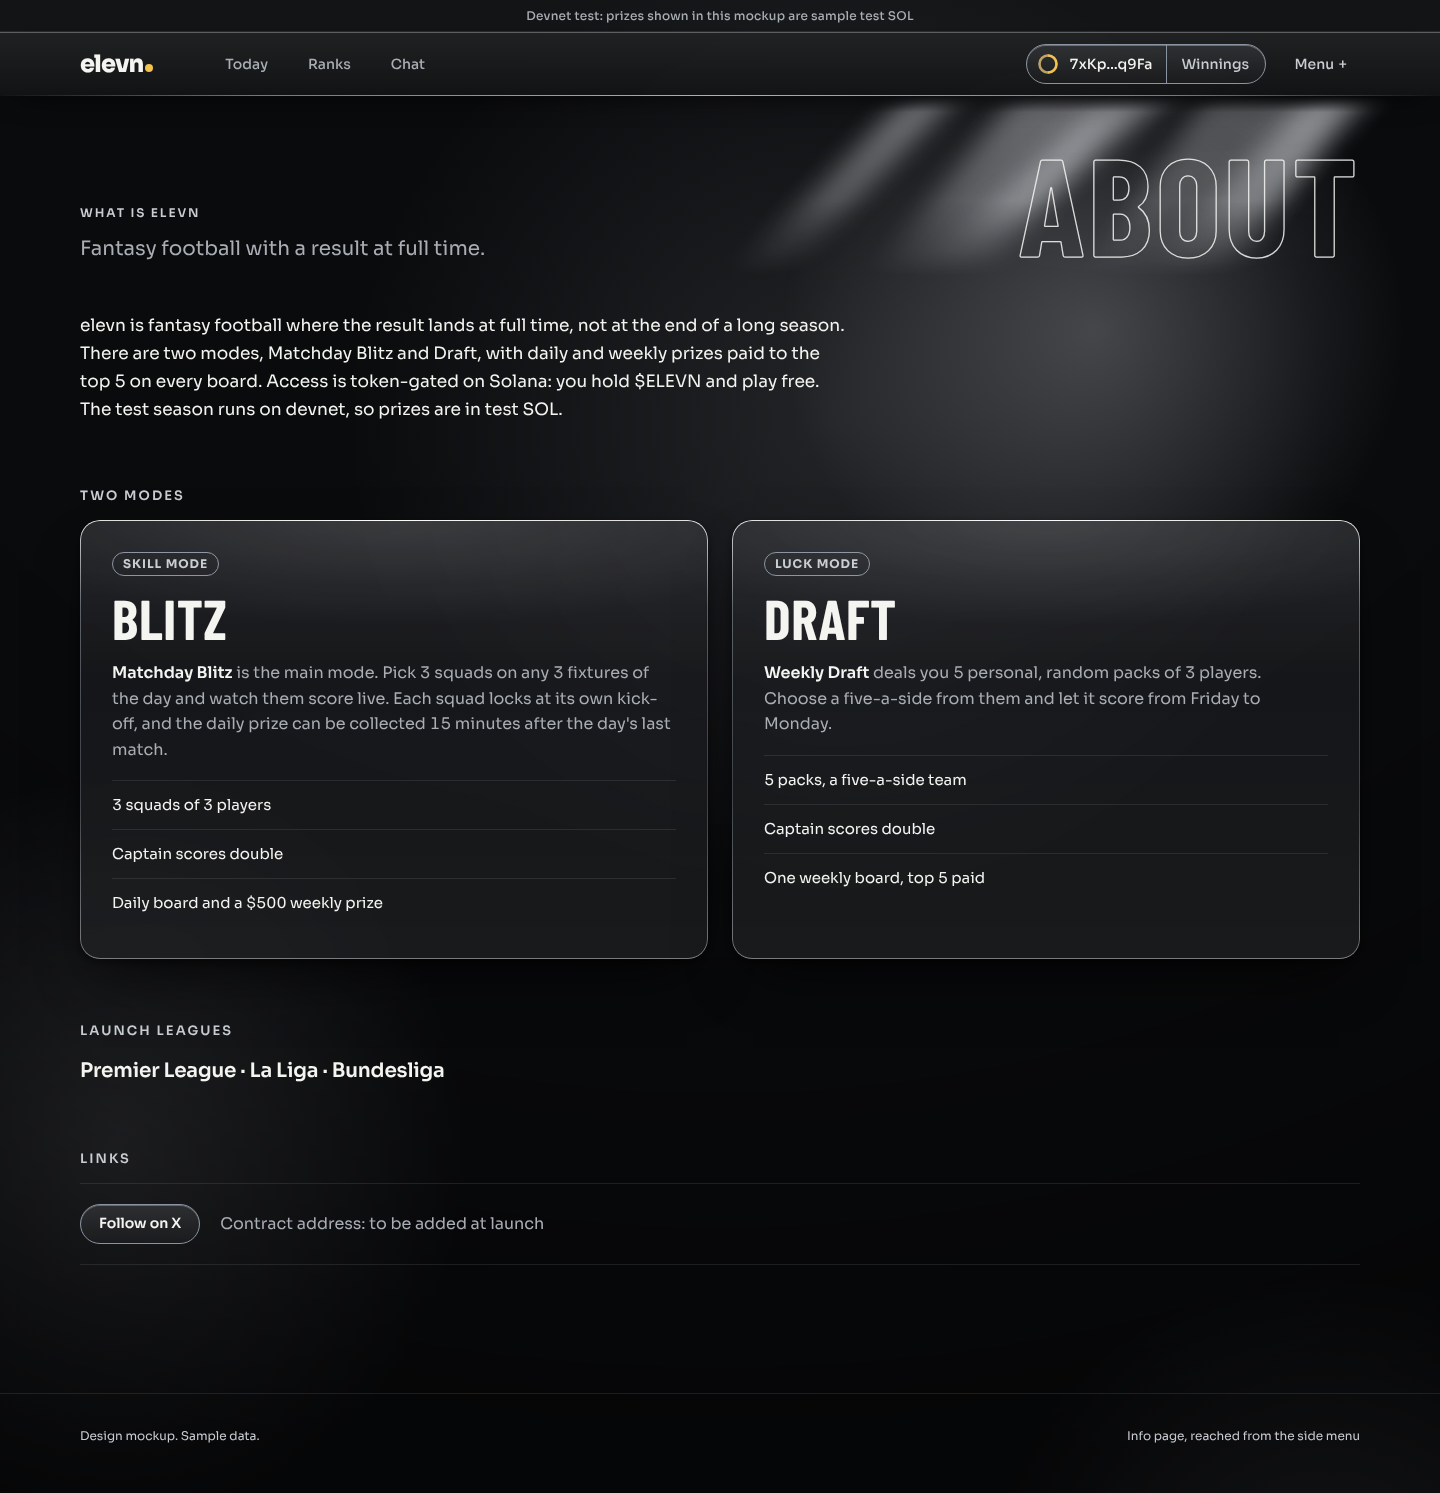
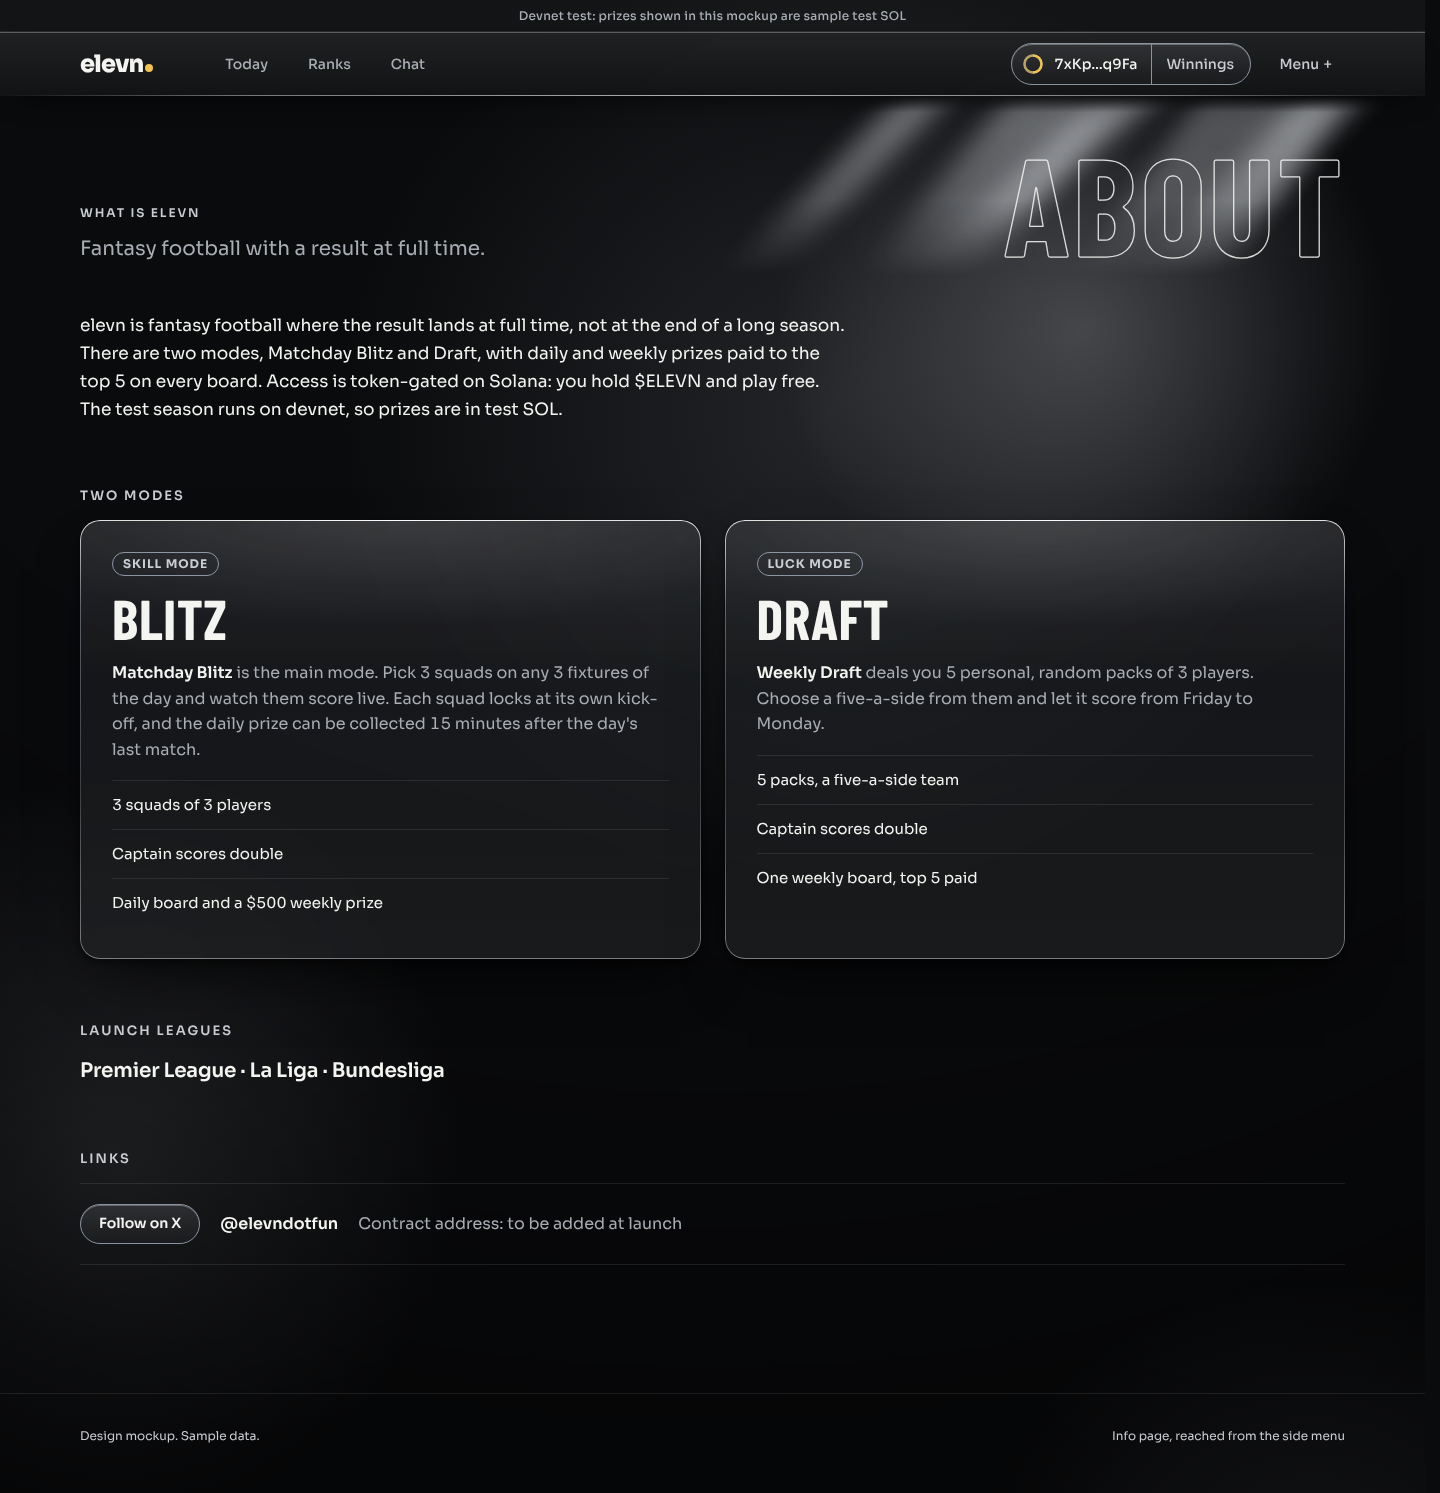
Mockups, work in progress: Roadmap drop-down and X link on About
Claude-Session: https://claude.ai/code/session_012GbKymxq8Mwy7J7Kp4CrmR

diff --git a/docs/design/mockups/roadmap.html b/docs/design/mockups/roadmap.html
@@ -13,8 +13,10 @@
 <main class="wrap ip">
 <div class="rays" aria-hidden="true"><i></i><i></i><i></i><i></i><i></i></div>
 <div class="ph"><div><span class="eyebrow">Where we are</span><p class="lead">The stages in order. No dates yet; each one opens when the one before it is done.</p></div><div class="w"><h1 class="word">Roadmap</h1></div></div>
-<div class="ip-grid"><div class="ip-main"><ol class="rtl" aria-label="Stages">
-<li class="done"><span class="mk"><svg width="26" height="26" viewBox="-13 -13 26 26" fill="none" stroke="currentColor" stroke-width="2.4" stroke-linecap="round" stroke-linejoin="round" aria-hidden="true"><path d="M-7 0.5L-2.5 5 7.5-5"/></svg></span><div class="glass stage"><div class="row"><h2>Blueprint</h2><span class="rs done"><svg width="14" height="14" viewBox="-7 -7 14 14" fill="none" stroke="currentColor" stroke-width="2.2" stroke-linecap="round" stroke-linejoin="round" aria-hidden="true"><path d="M-4.5 0.5L-1.5 3.5 4.5-3"/></svg>Done</span></div><p>Game modes, prizes and rules are settled.</p></div></li><li class="now" aria-current="step"><span class="mk"><svg width="26" height="26" viewBox="-13 -13 26 26" aria-hidden="true"><circle r="4.5" fill="#f2c14e"/><circle r="9" fill="none" stroke="#f2c14e" stroke-width="2"/></svg></span><div class="glass stage"><div class="row"><h2>Design</h2><span class="rs now"><svg width="14" height="14" viewBox="-7 -7 14 14" aria-hidden="true"><circle r="3.4" fill="#0a0b0d"/><circle r="6" fill="none" stroke="#0a0b0d" stroke-width="1.6"/></svg>Now</span></div><p>The look of the whole site, drawn as mockups.</p></div></li><li class="next"><span class="mk"><svg width="26" height="26" viewBox="-13 -13 26 26" aria-hidden="true"><circle r="7" fill="none" stroke="currentColor" stroke-width="2.4"/></svg></span><div class="glass stage"><div class="row"><h2>Build</h2><span class="rs next"><svg width="14" height="14" viewBox="-7 -7 14 14" aria-hidden="true"><circle r="5" fill="none" stroke="currentColor" stroke-width="2"/></svg>Next</span></div><p>Each part is built and tested in turn.</p><ol class="steps"><li>Foundations</li><li>Matchday Blitz</li><li>Draft</li><li>Penalty Shootout</li><li>Home page</li><li>News</li><li>First-visit tutorial</li></ol></div></li><li class="next"><span class="mk"><svg width="26" height="26" viewBox="-13 -13 26 26" aria-hidden="true"><circle r="7" fill="none" stroke="currentColor" stroke-width="2.4"/></svg></span><div class="glass stage"><div class="row"><h2>Test season on devnet</h2><span class="rs next"><svg width="14" height="14" viewBox="-7 -7 14 14" aria-hidden="true"><circle r="5" fill="none" stroke="currentColor" stroke-width="2"/></svg>Next</span></div><p>Prizes are test SOL on devnet.</p></div></li><li class="next"><span class="mk"><svg width="26" height="26" viewBox="-13 -13 26 26" aria-hidden="true"><circle r="7" fill="none" stroke="currentColor" stroke-width="2.4"/></svg></span><div class="glass stage"><div class="row"><h2>Legal review</h2><span class="rs next"><svg width="14" height="14" viewBox="-7 -7 14 14" aria-hidden="true"><circle r="5" fill="none" stroke="currentColor" stroke-width="2"/></svg>Next</span></div><p>Comes before mainnet.</p></div></li><li class="next"><span class="mk"><svg width="26" height="26" viewBox="-13 -13 26 26" aria-hidden="true"><circle r="7" fill="none" stroke="currentColor" stroke-width="2.4"/></svg></span><div class="glass stage"><div class="row"><h2>Mainnet</h2><span class="rs next"><svg width="14" height="14" viewBox="-7 -7 14 14" aria-hidden="true"><circle r="5" fill="none" stroke="currentColor" stroke-width="2"/></svg>Next</span></div><p>Prizes in real SOL.</p></div></li></ol>
+<div class="ip-grid"><div class="ip-main"><ol class="rtl" aria-label="Stages"><li class="now" aria-current="step"><span class="mk"><svg width="26" height="26" viewBox="-13 -13 26 26" aria-hidden="true"><circle r="4.5" fill="#f2c14e"/><circle r="9" fill="none" stroke="#f2c14e" stroke-width="2"/></svg></span><div class="glass stage"><div class="row"><h2>Building the platform</h2><span class="rs now"><svg width="14" height="14" viewBox="-7 -7 14 14" aria-hidden="true"><circle r="3.4" fill="#0a0b0d"/><circle r="6" fill="none" stroke="#0a0b0d" stroke-width="1.6"/></svg>Now</span></div><p>Design is being finished, and the build comes next.</p><details class="behind"><summary>Show the stages behind this<span class="pm" aria-hidden="true"></span></summary><ol class="inner">
+<li><span class="n">Blueprint</span><span class="rs done"><svg width="14" height="14" viewBox="-7 -7 14 14" fill="none" stroke="currentColor" stroke-width="2.2" stroke-linecap="round" stroke-linejoin="round" aria-hidden="true"><path d="M-4.5 0.5L-1.5 3.5 4.5-3"/></svg>Done</span></li>
+<li><span class="n">Design</span><span class="rs now"><svg width="14" height="14" viewBox="-7 -7 14 14" aria-hidden="true"><circle r="3.4" fill="#0a0b0d"/><circle r="6" fill="none" stroke="#0a0b0d" stroke-width="1.6"/></svg>Now</span></li>
+<li><span class="n">Build</span><span class="rs next"><svg width="14" height="14" viewBox="-7 -7 14 14" aria-hidden="true"><circle r="5" fill="none" stroke="currentColor" stroke-width="2"/></svg>Next</span><ol class="steps"><li>Foundations</li><li>Matchday Blitz</li><li>Draft</li><li>Penalty Shootout</li><li>Home page</li><li>News</li><li>First-visit tutorial</li></ol></li></ol></details></div></li><li class="next"><span class="mk"><svg width="26" height="26" viewBox="-13 -13 26 26" aria-hidden="true"><circle r="7" fill="none" stroke="currentColor" stroke-width="2.4"/></svg></span><div class="glass stage"><div class="row"><h2>Test season on devnet</h2><span class="rs next"><svg width="14" height="14" viewBox="-7 -7 14 14" aria-hidden="true"><circle r="5" fill="none" stroke="currentColor" stroke-width="2"/></svg>Next</span></div><p>Prizes are test SOL on devnet.</p></div></li><li class="next"><span class="mk"><svg width="26" height="26" viewBox="-13 -13 26 26" aria-hidden="true"><circle r="7" fill="none" stroke="currentColor" stroke-width="2.4"/></svg></span><div class="glass stage"><div class="row"><h2>Legal review</h2><span class="rs next"><svg width="14" height="14" viewBox="-7 -7 14 14" aria-hidden="true"><circle r="5" fill="none" stroke="currentColor" stroke-width="2"/></svg>Next</span></div><p>Comes before mainnet.</p></div></li><li class="next"><span class="mk"><svg width="26" height="26" viewBox="-13 -13 26 26" aria-hidden="true"><circle r="7" fill="none" stroke="currentColor" stroke-width="2.4"/></svg></span><div class="glass stage"><div class="row"><h2>Mainnet</h2><span class="rs next"><svg width="14" height="14" viewBox="-7 -7 14 14" aria-hidden="true"><circle r="5" fill="none" stroke="currentColor" stroke-width="2"/></svg>Next</span></div><p>Prizes in real SOL.</p></div></li></ol>
 <div class="later-h"><h2>Later</h2><p>Future ideas. Nothing here has a date.</p></div><ol class="rtl lt" aria-label="Later"><li class="later"><span class="mk"><svg width="22" height="22" viewBox="-13 -13 26 26" aria-hidden="true"><circle r="7" fill="none" stroke="currentColor" stroke-width="2.4" stroke-dasharray="3.2 3.2"/></svg></span><div class="stage"><div class="row"><h2>Notifications</h2><span class="rs later"><svg width="14" height="14" viewBox="-7 -7 14 14" aria-hidden="true"><circle r="5" fill="none" stroke="currentColor" stroke-width="2" stroke-dasharray="2.4 2.4"/></svg>Later</span></div><p>A feature for the future.</p></div></li></ol>
 </div></div>
 </main>

diff --git a/docs/design/mockups/info-pages.css b/docs/design/mockups/info-pages.css
@@ -120,3 +120,18 @@
 .stage ol.steps { list-style: none; counter-reset: st; padding: 0; margin: 16px 0 0; }
 .stage ol.steps li { counter-increment: st; display: flex; gap: 14px; }
 .stage ol.steps li::before { content: counter(st); color: var(--accent); font-weight: 700; min-width: 16px; }
+.handle { font-size: 16px; font-weight: 600; color: var(--text); }
+.behind { margin-top: 20px; }
+.behind summary { list-style: none; cursor: pointer; display: flex; align-items: center; justify-content: space-between; gap: 16px; min-height: 48px; padding: 0 4px 0 0; border-top: 1px solid var(--line); font-size: 15px; font-weight: 600; }
+.behind summary::-webkit-details-marker { display: none; }
+.behind summary:hover { color: var(--accent); }
+.behind .pm { flex: none; position: relative; width: 28px; height: 28px; border-radius: 50%; border: 1px solid var(--edge-control); }
+.behind .pm::before, .behind .pm::after { content: ""; position: absolute; left: 50%; top: 50%; width: 12px; height: 2px; margin: -1px 0 0 -6px; background: var(--text); border-radius: 2px; transition: transform 180ms var(--ease); }
+.behind .pm::after { transform: rotate(90deg); }
+.behind[open] .pm::after { transform: rotate(0); }
+.behind .inner { list-style: none; padding: 4px 0 0 20px; margin: 0; border-left: 1px solid var(--steel-edge); }
+.behind .inner > li { display: flex; align-items: center; flex-wrap: wrap; gap: 12px; padding: 12px 0; font-size: 16px; font-weight: 600; }
+.behind .inner > li + li { border-top: 1px solid var(--line); }
+.behind .steps { flex-basis: 100%; margin-top: 4px; }
+.behind .steps li { font-weight: 400; border-top: 1px solid var(--line); }
+@media (max-width: 700px) { .behind .inner { padding-left: 12px; } }

diff --git a/docs/design/mockups/about.html b/docs/design/mockups/about.html
@@ -24,7 +24,7 @@
 <h2 class="sec-h">Launch leagues</h2>
 <p class="leagues">Premier League · La Liga · Bundesliga</p>
 <h2 class="sec-h">Links</h2>
-<div class="linkrow"><a class="btn btn-line btn-sm" href="#">Follow on X</a><p>Contract address: to be added at launch</p></div>
+<div class="linkrow"><a class="btn btn-line btn-sm" href="https://x.com/elevndotfun" target="_blank" rel="noopener">Follow on X<span class="sr"> (opens in a new tab)</span></a><span class="handle">@elevndotfun</span><p>Contract address: to be added at launch</p></div>
 </main>
 <footer class="foot-note"><div class="wrap"><span>Design mockup. Sample data.</span><span>Info page, reached from the side menu</span></div></footer>
 </body></html>
